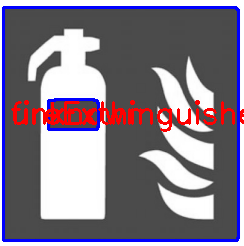
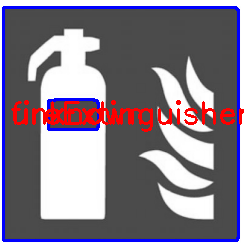
storing name in SignPattern

diff --git a/lib/generate-assets.ts b/lib/generate-assets.ts
@@ -85,7 +85,7 @@ async function generateSingleSignPattern(
   ${arr.join("")}
 };
 cv::Mat ${name}_canny = cv::Mat(${height}, ${width}, CV_8UC1, reinterpret_cast<void*>(${name}_canny_array));
-const SignPattern ${name} = SignPattern(${name}_canny);`;
+const SignPattern ${name} = SignPattern(${name}_canny, "${name}");`;
 
   console.log(`  ✓ generated  "${name}"`);
   return signPattern;

diff --git a/lib/src/cpp/classify_sign.cpp b/lib/src/cpp/classify_sign.cpp
@@ -4,6 +4,12 @@
 #include "classify_sign.hpp"
 #include "operators/colorized_canny.hpp"
 
+void drawContour(cv::Mat &dst, std::vector<cv::Point2i> contour)
+{
+    std::vector<std::vector<cv::Point2i>> contours = {contour};
+    cv::drawContours(dst, contours, 0, cv::Scalar(0, 0, 255, 255), 2, cv::LINE_8);
+}
+
 void writeLabel(cv::Mat &dst, std::string label)
 {
     cv::putText(dst, label, cv::Point2i(10, dst.rows / 2), cv::FONT_HERSHEY_SIMPLEX, 1, cv::Scalar(255, 0, 0, 255), 2);
@@ -21,26 +27,18 @@ void classifySign(cv::Mat &cropped, cv::Mat &dst, std::vector<cv::Point2i> conto
     // TODO compare only with quadraliteral signs
 
     // TODO position sign class label
-    bool match = false;
     SignPattern signPattern = UNKNOWN_SIGN_PATTERN;
-    for (size_t i = 0; i < signPatterns.size(); i++) {
-        signPattern = signPatterns[i];
-        if (signPattern.match(sign))
+    for (size_t i = 0; i < signPatterns.size(); i++)
+    {
+        SignPattern currentSignPattern = signPatterns[i];
+        if (currentSignPattern.match(sign))
         {
-            printf("pattern %d is matching\n", (int) i);
-            writeLabel(dst, "pattern_" + std::to_string((int) i));
-            match = true;
+            signPattern = currentSignPattern;
             break;
         }
     }
+    printf("detected type: %s\n", signPattern.name.c_str());
 
-    if (!match) {
-        printf("no matching sign found\n");
-        writeLabel(dst, "unknown");
-    }
-
-    // TODO write sign class
-    cv::Scalar color1 = cv::Scalar(0, 0, 255, 255);
-    std::vector<std::vector<cv::Point2i>> contours = {contour};
-    cv::drawContours(dst, contours, 0, color1, 2, cv::LINE_8);
+    drawContour(dst, contour);
+    writeLabel(dst, signPattern.name);
 }

diff --git a/lib/src/cpp/models/sign.hpp b/lib/src/cpp/models/sign.hpp
@@ -8,15 +8,19 @@ class Sign
 public:
     cv::Mat canny;
     cv::Mat invertedDilated;
+
     Sign(cv::Mat canny);
 };
 
-class SignPattern : public Sign {
+class SignPattern : public Sign
+{
 public:
-    using Sign::Sign;
+    std::string name;
+
+    SignPattern(cv::Mat canny, std::string name);
     bool match(Sign other) const;
 };
 
-const SignPattern UNKNOWN_SIGN_PATTERN = SignPattern(cv::Mat::zeros(1, 1, CV_8UC1));
+const SignPattern UNKNOWN_SIGN_PATTERN = SignPattern(cv::Mat::zeros(1, 1, CV_8UC1), "unknown");
 
 #endif

diff --git a/lib/src/cpp/models/sign.cpp b/lib/src/cpp/models/sign.cpp
@@ -14,6 +14,11 @@ Sign::Sign(cv::Mat canny)
 }
 
 // SignPattern
+SignPattern::SignPattern(cv::Mat canny, std::string name) : Sign(canny)
+{
+  this->name = name;
+}
+
 bool SignPattern::match(Sign other) const
 {
   // erase: result = (normal - dilated)
